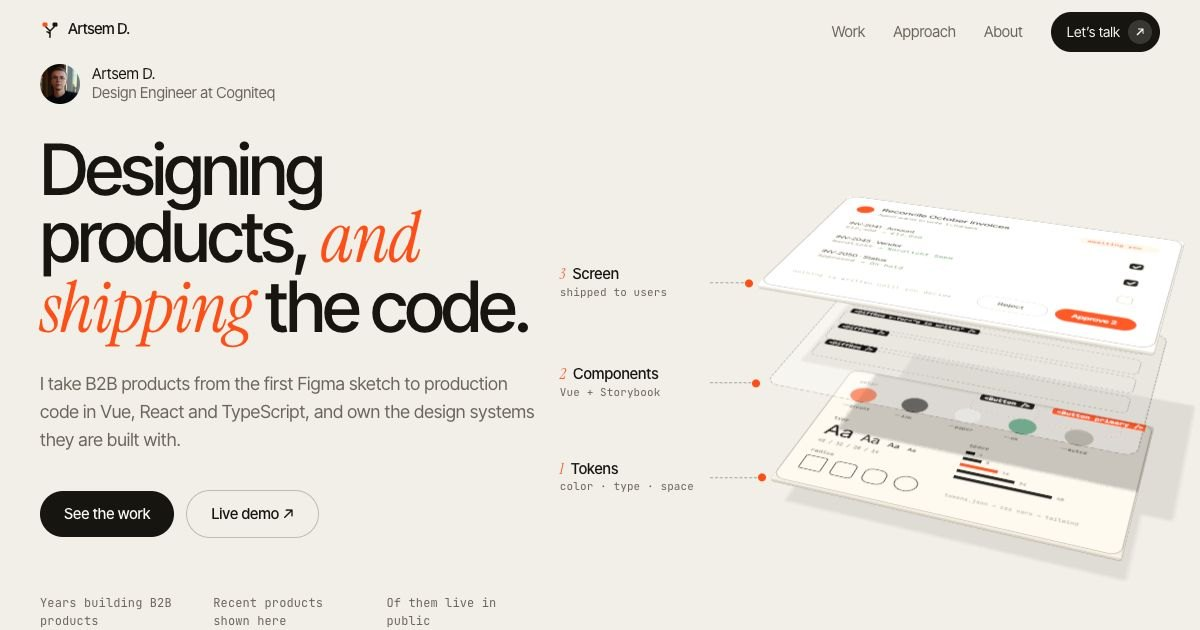
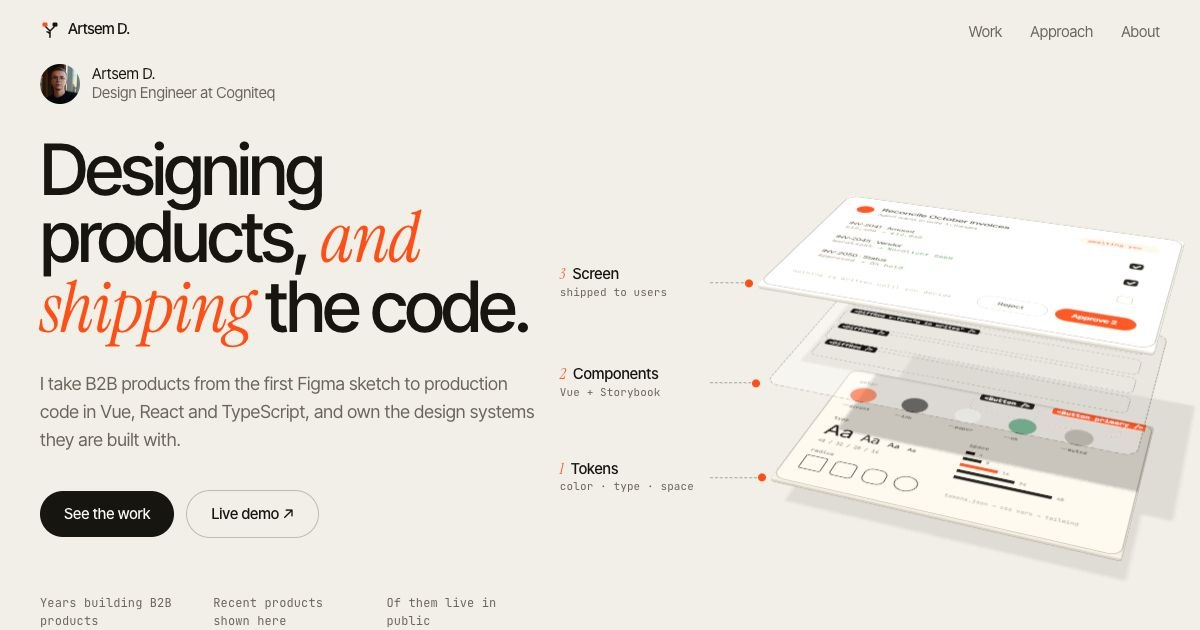
Remove the Let's talk button from the nav

Changed region(s): [[0.6783, 0.0, 0.9867, 0.0905]]

diff --git a/src/components/SiteNav.vue b/src/components/SiteNav.vue
@@ -22,17 +22,11 @@ const links = [
     <nav class="wrap flex h-16 items-center justify-between gap-6" aria-label="Main">
       <RouterLink to="/" class="text-fg" aria-label="Artsem D., home"><LogoMark /></RouterLink>
       <div class="flex items-center gap-7">
-        <ul class="hidden items-center gap-7 text-[15px] text-dim md:flex">
+        <ul class="flex items-center gap-5 text-[15px] text-dim md:gap-7">
           <li v-for="l in links" :key="l.to">
             <RouterLink :to="l.to" class="transition-colors hover:text-fg">{{ l.label }}</RouterLink>
           </li>
         </ul>
-        <RouterLink to="/#contact" class="group inline-flex items-center gap-2 rounded-full bg-fg py-2 pr-2 pl-4 text-sm text-card transition-colors hover:bg-accent">
-          Let’s talk
-          <span class="grid size-6 place-items-center rounded-full bg-card/15 transition-transform duration-500 group-hover:rotate-45" aria-hidden="true">
-            <svg viewBox="0 0 16 16" class="size-3"><path d="M4 12 12 4M5.5 4H12v6.5" fill="none" stroke="currentColor" stroke-width="1.6" /></svg>
-          </span>
-        </RouterLink>
       </div>
     </nav>
   </header>
